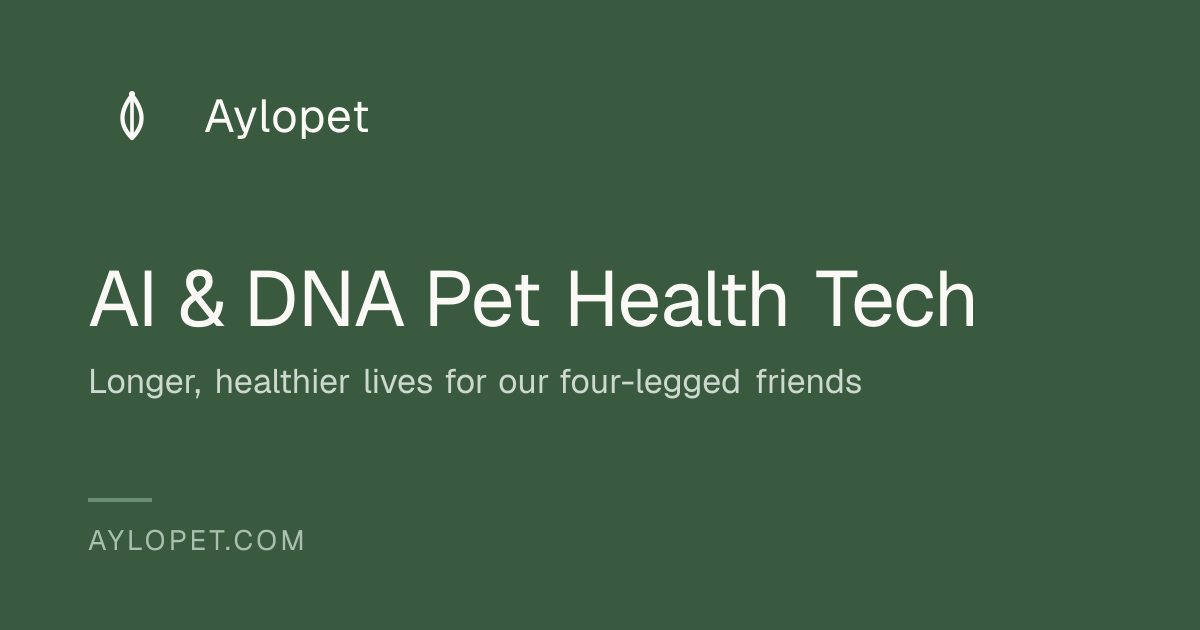
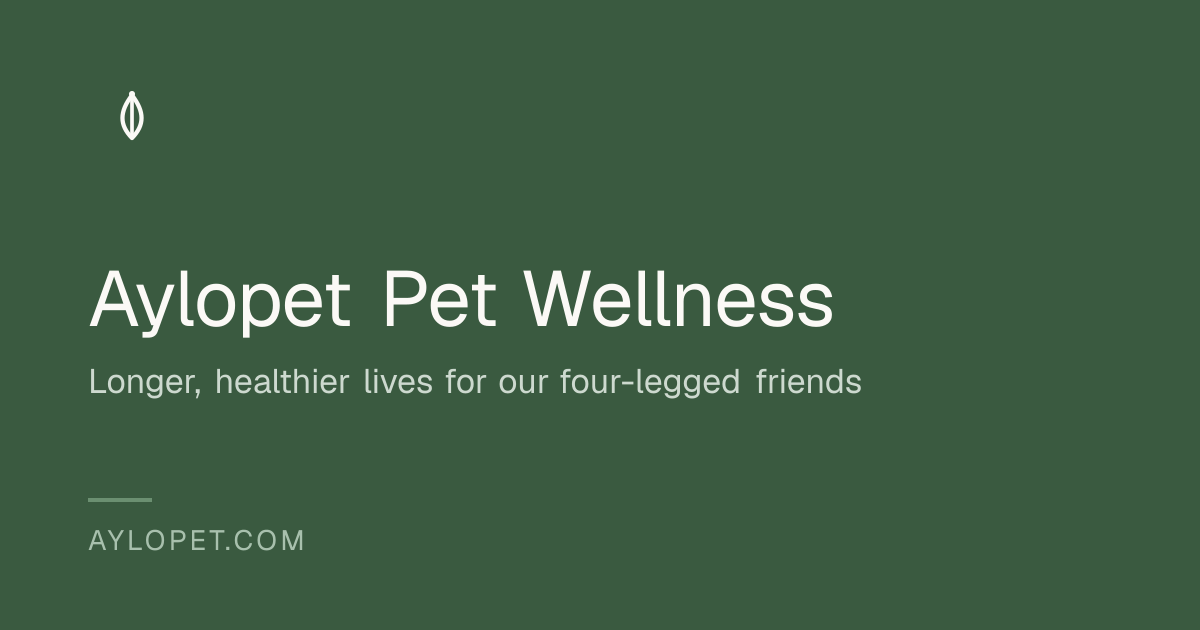
feat(seo): show "Aylopet Pet Wellness" in shared link previews
Links sent over WhatsApp, Messenger, Telegram and the like read their
preview from Open Graph, which still said "Aylopet (ეილოფეთი), AI & DNA
Pet Health Tech" with site name "Aylopet".

- og:title / twitter:title, og:site_name and the image alt are now
  "Aylopet Pet Wellness", matching the browser tab.
- The preview card headline is "Aylopet Pet Wellness" (regenerated with
  scripts/brand/generate.mjs; the duplicate "Aylopet" wordmark is dropped).
- The image URL gets ?v=2 so apps that cache previews by image URL fetch
  the new card.

Claude-Session: https://claude.ai/code/session_01LuoW5fcuzUNvCUEVNBLP5r

Changed region(s): [[0.0925, 0.4222, 0.8325, 0.5429], [0.1542, 0.1508, 0.3083, 0.2111]]

diff --git a/src/lib/seo.ts b/src/lib/seo.ts
@@ -24,7 +24,8 @@ export const SITE_TITLE_TEMPLATE = `${SITE_TITLE} · %s`;
 export const SITE_DESCRIPTION =
   "Aylopet (ეილოფეთი) არის ინოვაციური Pet Health Tech პლატფორმა, რომელიც AI-ისა და დნმ ანალიზის მეშვეობით ზრუნავს თქვენი ოთხფეხა მეგობრის ჯანმრთელობასა და ხანგრძლივ სიცოცხლეზე.";
 
-export const OG_TITLE = "Aylopet (ეილოფეთი), AI & DNA Pet Health Tech";
+/** Link previews (WhatsApp, Messenger, Telegram…) carry the same name as the tab. */
+export const OG_TITLE = SITE_TITLE;
 
 export const OG_DESCRIPTION =
   "AI-ზე და დნმ ანალიზზე დაფუძნებული პლატფორმა თქვენი ოთხფეხა მეგობრების ჯანმრთელობისთვის.";
@@ -40,10 +41,11 @@ export const SITE_KEYWORDS = [
 ];
 
 export const OG_IMAGE = {
-  url: "/og-image.png",
+  // Bump `v` whenever the card changes · chat apps cache previews by image URL.
+  url: "/og-image.png?v=2",
   width: 1200,
   height: 630,
-  alt: "Aylopet (ეილოფეთი), AI & DNA Pet Health Tech",
+  alt: SITE_TITLE,
 };
 
 export const LOGO_URL = `${SITE_URL}/logo.png`;

diff --git a/src/app/layout.tsx b/src/app/layout.tsx
@@ -46,7 +46,7 @@ export const metadata: Metadata = {
     description: OG_DESCRIPTION,
     type: "website",
     url: SITE_URL,
-    siteName: BRAND_NAME,
+    siteName: SITE_TITLE,
     locale: "ka_GE",
     alternateLocale: ["en_US"],
     images: [OG_IMAGE],
